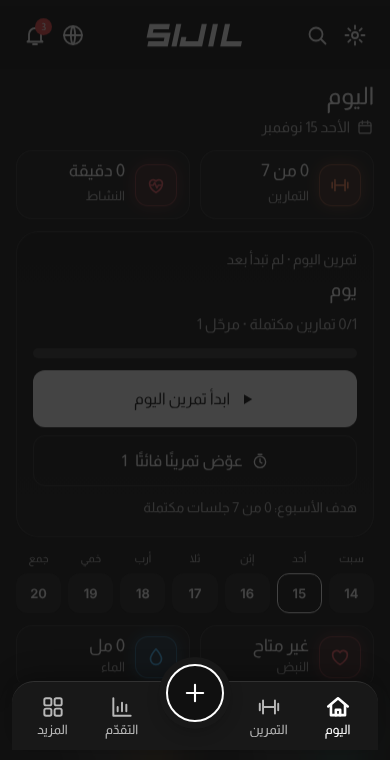
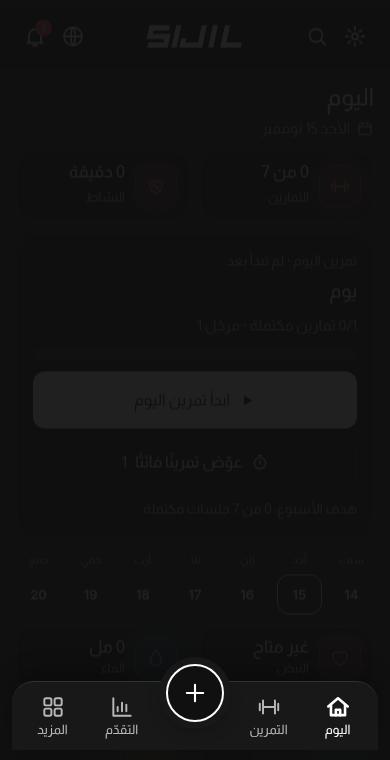
feat(train): مسارات التمرين الكبرى (الحديد، الكارديو، الكاليسثنكس، رفع الأوزان، السباحة، الركض)
الحديد والكارديو يحملان وظائفهما الحالية، والباقي فارغ بانتظار التكوين. إعادة تنسيق ترويسة الأسبوع بالسمات.

Claude-Session: https://claude.ai/code/session_01KyybtLNcTyHNYDyyNW1Vaq

diff --git a/app/fitness-tracker.html b/app/fitness-tracker.html
@@ -1086,6 +1086,19 @@ html[data-sj="white"] body .sjday{background:color-mix(in srgb,var(--dc) 7%,#fff
 .sjxo .sico,.sjxp .sico{flex:0 0 40px;width:40px;height:40px;display:grid;place-items:center;border-radius:12px;background:color-mix(in srgb,var(--sj-tx) 7%,transparent)}
 .sjxo .sico svg,.sjxp .sico svg{width:30px;height:30px}
 .sjadd input[data-f="n"]{margin-top:8px}
+.sjtrk{display:grid;grid-template-columns:repeat(2,minmax(0,1fr));gap:12px}
+.sjtk{display:flex;flex-direction:column;align-items:flex-start;gap:4px;text-align:start;padding:14px;border-radius:20px;border:1px solid var(--sj-ln);background:var(--sj-s1);color:var(--sj-tx);min-height:150px}
+.sjtk b{font-size:19px;margin-top:6px}.sjtk small{color:var(--sj-mu);direction:ltr;font-size:13px}.sjtk .mu{font-size:13px;margin-top:auto}
+.sjtk.soon{opacity:.72}
+.sjemp{display:flex;flex-direction:column;align-items:center;gap:8px;padding:34px 16px;text-align:center}
+html[data-sj] body .wkh{background:var(--sj-s1)!important;color:var(--sj-tx)!important;border:1px solid var(--sj-ln)!important}
+html[data-sj] body .wkh .wkn{border-color:var(--sj-ln)!important}
+html[data-sj] body .wkh .bar{background:var(--sj-ln)!important}html[data-sj] body .wkh .bar i,html[data-sj] body .wkh .wtl i.dn,html[data-sj] body .wkh .wtl i.cu{background:var(--sj-tx)!important}
+html[data-sj] body .dgrid{display:grid!important;grid-template-columns:repeat(7,minmax(0,1fr))!important;gap:6px!important}
+html[data-sj] body .dgrid .dt{min-width:0;width:auto;padding:8px 2px!important;border-radius:14px!important;background:var(--sj-s1)!important;border:1px solid var(--sj-ln)!important;color:var(--sj-tx)!important;box-shadow:none!important}
+html[data-sj] body .dgrid .dt.on{border-color:var(--sj-tx)!important;box-shadow:inset 0 0 0 1px var(--sj-tx)!important}
+html[data-sj] body .dgrid .dt b{font-size:12px}html[data-sj] body .dgrid .dt small,html[data-sj] body .dgrid .dt em{font-size:10px}
+html[data-sj] body .dgrid .dt .ck{border-color:var(--sj-mu)!important}html[data-sj] body .dgrid .dt .ck.ok{background:var(--sj-ok)!important;border-color:var(--sj-ok)!important;color:#fff!important}
 </style>
 
 <svg width="0" height="0" style="position:absolute" aria-hidden="true">
@@ -1435,10 +1448,12 @@ function taskRow(t,late){
  else h+='<div class="wrow"><div class="cur"><small>الحالي</small><b>'+F(bs,1)+'</b></div><label><small>وزن هذا الأسبوع</small><input type="number" inputmode="decimal" min="'+bs+'" data-wk="'+t.k+'" value="'+w+'" aria-label="وزن هذا الأسبوع"></label><label><small>التكرار</small><input type="number" inputmode="numeric" data-rk="'+t.k+'" value="'+rp+'" aria-label="التكرار"></label><button class="btn sm" data-a="done" data-k="'+t.k+'">تم</button></div>'+suggLine(t);
  return h+'</div>'}
 function vTrain(){
+ if(UI.trk==='hub'||!UI.trk)return trkHub();
+ if(UI.trk==='cardio')return trkBack()+'<h1>الكارديو</h1><div class="mu" style="margin-bottom:10px">'+DAYS[TI()]+' · '+TD()+'</div>'+vCardio(1);
+ if(UI.trk!=='iron')return trkEmpty(UI.trk);
  const T=tasks(),ti=TI(),dn=T.filter(t=>t.r).length,late=T.filter(t=>t.d<ti&&!t.r),now=T.filter(t=>t.d===ti),pw=S.plan[ti],td=TD(),rs=restLeft();
- let h='<h1>التمرين</h1><div class="mu" style="margin-bottom:10px">'+DAYS[ti]+' · '+(pw.ex.length?esc(pw.t):'يوم راحة')+'</div>'+seg([['today','اليوم'],['week','الأسبوع'],['cardio','كارديو'],['plan','الخطة'],['cum','لم تتحقق'],['disc','اكتشف']],'tw',UI.tw);
+ let h=trkBack()+'<h1>الحديد</h1><div class="mu" style="margin-bottom:10px">'+DAYS[ti]+' · '+(pw.ex.length?esc(pw.t):'يوم راحة')+'</div>'+seg([['today','اليوم'],['week','الأسبوع'],['plan','الخطة'],['cum','لم تتحقق'],['disc','اكتشف']],'tw',UI.tw);
  if(UI.tw==='plan')return h+vPlan().replace(/^<button class="back"[^>]*>.*?<\/button>/,'').replace(/<h1>.*?<\/h1>/,'');
- if(UI.tw==='cardio')return h+vCardio(1);
  if(UI.tw==='disc')return h+vDisc();
  if(UI.tw==='cum')return h+vCum();
  if(UI.tw==='today')h+=planHead()+sxHero(0,0).note+'<div class="row" style="margin:10px 0 12px">'+sxHero(0,0).btn+'</div>'+sxHero(0,0).mk+(isDl()?deloadCard():'');
@@ -3345,6 +3360,8 @@ function vDisc(){
  let h=recoCard();
  h+='<button class="lnk" style="border:1px solid var(--bd);border-radius:18px;padding:14px;margin-bottom:12px;background:var(--card)" data-a="sub" data-v="exl">'+ic('book')+'<span class="t"><b>مكتبة التمارين</b><br><span class="mu">'+XL.length+' تمرينًا بشرح وعضلات مستهدفة، مع بحث وتصفية</span></span>'+ic('next')+'</button>';
  h+='<button class="lnk" style="border:1px solid var(--bd);border-radius:18px;padding:14px;margin-bottom:12px;background:var(--card)" data-a="sub" data-v="aip">'+ic('spark')+'<span class="t"><b>خطة بالذكاء الاصطناعي</b><br><span class="mu">خطة أسبوعية من مكتبة التمارين حسب مستواك</span></span>'+ic('next')+'</button>';
+h+='<button class="lnk" style="border:1px solid var(--bd);border-radius:18px;padding:14px;margin-bottom:12px;background:var(--card)" data-a="sub" data-v="nau">'+ic('dumbbell')+'<span class="t"><b>الأجهزة الرياضية</b><br><span class="mu">دليل أجهزة النادي وطريقة استخدامها</span></span>'+ic('next')+'</button>';
+h+='<button class="lnk" style="border:1px solid var(--bd);border-radius:18px;padding:14px;margin-bottom:12px;background:var(--card)" data-a="sub" data-v="prg">'+ic('book')+'<span class="t"><b>البرامج الجاهزة</b><br><span class="mu">برامج حديد جاهزة تضيفها إلى خطتك</span></span>'+ic('next')+'</button>';
  const mine=S.my||[];
  if(mine.length)h+='<h2 style="margin:14px 0 8px">'+ic('user')+'جلساتي</h2><div class="car">'+mine.map(sessCard).join('')+'</div>';
  CAT.forEach(c=>{const L=SESS.filter(s=>s.cat===c[0]);if(L.length)h+='<h2 style="margin:14px 0 8px">'+c[1]+'</h2><div class="car">'+L.map(sessCard).join('')+'</div>'});
@@ -5299,7 +5316,7 @@ function vEx(){
  let h='<div class="sjttl"><div><h1>المزيد</h1><div class="mu">إدارة التطبيق وتفضيلاتك</div></div></div>';
  h+='<button class="sjrow" data-a="go" data-v="me" style="background:var(--sj-btn)!important;color:var(--sj-btnt)!important"><span class="av" style="width:40px;height:40px;display:grid;place-items:center;border-radius:50%;flex:none">'+(P.av?'<img alt="" src="'+P.av+'" style="width:100%;height:100%;border-radius:50%;object-fit:cover">':esc((P.name||'س').charAt(0)))+'</span><span class="t">الملف الشخصي<small style="color:inherit;opacity:.75">إدارة بياناتك وتفضيلاتك</small></span>'+ic('next')+'</button>';
  h+='<div class="sjsec">الصحة والجسم</div>'+R('hr','heart','الربط الصحي',F2('link'))+R('wl','scale','الوزن والقياسات',F2('wgt'))+R('nu','fork','التغذية','data-a="fgo" data-v="food"');
- h+='<div class="sjsec">النادي</div>'+R('ar','pin','الأندية والزيارات',F2('gyms'),'جدول زياراتي والأجهزة')+R('tr','dumbbell','الأجهزة الرياضية',F2('nau'));
+ h+='<div class="sjsec">النادي</div>'+R('ar','pin','الأندية والزيارات',F2('gyms'),'جدول زياراتي والأجهزة')+R('tr','dumbbell','الأجهزة الرياضية',F2('nau'))+R('tr','gear','خطة التمارين والأوزان','data-a="sub" data-v="plan"');
  h+='<div class="sjsec">تعلّم</div>'+R('rp','timer','المنبهات',F2('rem'))+R('rp','book','الثقافة الرياضية',F2('cul'))+R('wt','calc','الأدوات',F2('tools'))+R('md','spark','المدرب الذكي',F2('coach'));
  h+='<div class="sjsec">التطبيق وحسابي</div>'+R('nt','gear','الإعدادات','data-a="sub" data-v="set"','المظهر والخط واللغة')+R('nt','users','المجتمع',F2('comm'))+R('nt','info','بياناتي والخصوصية','data-a="sub" data-v="set"','النسخ الاحتياطي والحذف');
  h+='<div class="sechead"><h2>كل المزايا</h2></div>';
@@ -5310,6 +5327,24 @@ function vEx(){
  [['التدريب',['wk','plan','prog','ach','arch','rpt']],['الصحة والتغذية',['meal','wgt','tools','link','rem']],['النادي والمعرفة',['gyms','nau','vis','cul','coach']],['المجتمع والحساب',['comm','nc','set','me']]].forEach(g=>{h+='<div class="sechead"><h2>'+g[0]+'</h2></div>'+rail(g[1].map(i=>chipF(FD[i])))});
  return h}
 Object.assign(ENT,{'اليوم':'Today','التمرين':'Workout','التقدّم':'Progress','المزيد':'More','المظهر':'Appearance','تسجيل سريع':'Quick log','تسجيل الماء':'Log water','تسجيل الوزن':'Log weight','تسجيل وجبة':'Log meal','تسجيل تمرين':'Log workout','أهلًا بك':'Welcome','ابدأ الآن':'Start now','تسجيل الدخول':'Sign in','تمرين اليوم':'Today\'s workout','يوم راحة':'Rest day','سجلاتي':'My records','الصحة والجسم':'Health & body','النادي':'Gym','تعلّم':'Learn','التطبيق وحسابي':'App & account','الأسود':'Black','الأبيض':'White','الأزرق':'Blue','الزمردي':'Emerald','الزيتوني':'Olive','البنفسجي':'Purple','الملف الشخصي':'Profile','النبض':'Pulse','الماء':'Water','التغذية':'Nutrition','التقارير':'Reports','الأرشيف':'Archive','الأوسمة':'Medals','مراقبة الوزن':'Weight tracking','النوم':'Sleep','الإعدادات':'Settings'});
+/* ===== مسارات التمرين الكبرى ===== */
+const TRKS=[['iron','الحديد','Iron','tr','dumbbell'],['cardio','الكارديو','Cardio','hr','pulse'],['cali','الكاليسثنكس','Calisthenics','wl','target'],['lift','رفع الأوزان','Weightlifting','wm','trophy'],['swim','السباحة','Swimming','wt','drop'],['run','الركض','Running','nu','step']];
+UI.trk=UI.trk||'hub';
+(()=>{let v=UI.tw;Object.defineProperty(UI,'tw',{configurable:true,enumerable:true,get(){return v},set(x){v=x;UI.trk=x==='cardio'?'cardio':'iron'}})})();
+function trkBack(){return '<button class="back" data-a="trkhub">'+ic('next')+'مسارات التمرين</button>'}
+function trkSub(k){const T=tasks(),ti=TI(),pw=S.plan[ti];
+ if(k==='iron'){const now=T.filter(t=>t.d===ti);return pw.ex.length?esc(pw.t)+' · '+now.filter(t=>t.r).length+'/'+now.length:'يوم راحة'}
+ if(k==='cardio'){const c=cdv(TD());return F(c.min)+' دقيقة · '+F(c.steps)+' خطوة اليوم'}
+ return 'قريبًا'}
+function trkHub(){
+ let h='<h1>التمرين</h1><div class="mu" style="margin-bottom:12px">اختر المسار</div><div class="sjtrk">';
+ h+=TRKS.map(x=>'<button class="sjtk'+(x[0]==='iron'||x[0]==='cardio'?'':' soon')+'" data-a="trk" data-v="'+x[0]+'">'+sjI(x[3],x[4])+'<b>'+x[1]+'</b><small>'+x[2]+'</small><span class="mu">'+trkSub(x[0])+'</span></button>').join('');
+ return h+'</div>'}
+function trkEmpty(k){const x=TRKS.find(a=>a[0]===k)||TRKS[0];
+ return trkBack()+'<h1>'+x[1]+'</h1><div class="card sjemp">'+sjI(x[3],x[4])+'<b>هذا المسار فارغ حاليًا</b><div class="mu">سيُجهَّز محتواه لاحقًا.</div></div>'}
+Object.assign(ACT,{trk:b=>{UI.trk=b.dataset.v;window.scrollTo(0,0)},trkhub:()=>{UI.trk='hub';window.scrollTo(0,0)}});
+(()=>{const g=ACT.go;ACT.go=function(b,ev){if(b&&b.dataset&&b.dataset.v==='train')UI.trk='hub';return g.apply(this,arguments)}})();
+Object.assign(ENT,{"مسارات التمرين":"Workout tracks","اختر المسار":"Choose a track","الحديد":"Iron","الكارديو":"Cardio","الكاليسثنكس":"Calisthenics","رفع الأوزان":"Weightlifting","السباحة":"Swimming","الركض":"Running","قريبًا":"Coming soon","هذا المسار فارغ حاليًا":"This track is empty for now","سيُجهَّز محتواه لاحقًا.":"Its content will be added later."});
 /* ===== خطة التمارين: نوع اليوم قائمة منسدلة، لون خفيف لكل يوم، وقائمة تمارين تناسب اليوم بالعربية والإنجليزية مع أيقونة الشكل ===== */
 const DAYT=[['صدر','Chest','chest'],['ظهر','Back','back'],['أكتاف','Shoulders','sho'],['باي','Biceps','bic'],['تراي','Triceps','tri'],['صدر وترايسبس','Chest & Triceps','chest,tri'],['ظهر وبايسبس','Back & Biceps','back,bic'],['أكتاف وبطن','Shoulders & Abs','sho,core'],['أرجل','Legs','quad,ham,glu,calf,add,hip'],['جسم علوي','Upper body','chest,back,sho,bic,tri,fore'],['جسم سفلي','Lower body','quad,ham,glu,calf,add,hip'],['جسم كامل','Full body','full'],['تكميلي','Accessory',''],['راحة','Rest','']];
 const DAYHUE=['#e5484d','#f5a524','#c9b80f','#3fb950','#16b3b3','#4c7dff','#a35ee8'];

diff --git a/pwa/index.html b/pwa/index.html
@@ -1086,6 +1086,19 @@ html[data-sj="white"] body .sjday{background:color-mix(in srgb,var(--dc) 7%,#fff
 .sjxo .sico,.sjxp .sico{flex:0 0 40px;width:40px;height:40px;display:grid;place-items:center;border-radius:12px;background:color-mix(in srgb,var(--sj-tx) 7%,transparent)}
 .sjxo .sico svg,.sjxp .sico svg{width:30px;height:30px}
 .sjadd input[data-f="n"]{margin-top:8px}
+.sjtrk{display:grid;grid-template-columns:repeat(2,minmax(0,1fr));gap:12px}
+.sjtk{display:flex;flex-direction:column;align-items:flex-start;gap:4px;text-align:start;padding:14px;border-radius:20px;border:1px solid var(--sj-ln);background:var(--sj-s1);color:var(--sj-tx);min-height:150px}
+.sjtk b{font-size:19px;margin-top:6px}.sjtk small{color:var(--sj-mu);direction:ltr;font-size:13px}.sjtk .mu{font-size:13px;margin-top:auto}
+.sjtk.soon{opacity:.72}
+.sjemp{display:flex;flex-direction:column;align-items:center;gap:8px;padding:34px 16px;text-align:center}
+html[data-sj] body .wkh{background:var(--sj-s1)!important;color:var(--sj-tx)!important;border:1px solid var(--sj-ln)!important}
+html[data-sj] body .wkh .wkn{border-color:var(--sj-ln)!important}
+html[data-sj] body .wkh .bar{background:var(--sj-ln)!important}html[data-sj] body .wkh .bar i,html[data-sj] body .wkh .wtl i.dn,html[data-sj] body .wkh .wtl i.cu{background:var(--sj-tx)!important}
+html[data-sj] body .dgrid{display:grid!important;grid-template-columns:repeat(7,minmax(0,1fr))!important;gap:6px!important}
+html[data-sj] body .dgrid .dt{min-width:0;width:auto;padding:8px 2px!important;border-radius:14px!important;background:var(--sj-s1)!important;border:1px solid var(--sj-ln)!important;color:var(--sj-tx)!important;box-shadow:none!important}
+html[data-sj] body .dgrid .dt.on{border-color:var(--sj-tx)!important;box-shadow:inset 0 0 0 1px var(--sj-tx)!important}
+html[data-sj] body .dgrid .dt b{font-size:12px}html[data-sj] body .dgrid .dt small,html[data-sj] body .dgrid .dt em{font-size:10px}
+html[data-sj] body .dgrid .dt .ck{border-color:var(--sj-mu)!important}html[data-sj] body .dgrid .dt .ck.ok{background:var(--sj-ok)!important;border-color:var(--sj-ok)!important;color:#fff!important}
 </style>
 <script src="config.js"></script>
 
@@ -1436,10 +1449,12 @@ function taskRow(t,late){
  else h+='<div class="wrow"><div class="cur"><small>الحالي</small><b>'+F(bs,1)+'</b></div><label><small>وزن هذا الأسبوع</small><input type="number" inputmode="decimal" min="'+bs+'" data-wk="'+t.k+'" value="'+w+'" aria-label="وزن هذا الأسبوع"></label><label><small>التكرار</small><input type="number" inputmode="numeric" data-rk="'+t.k+'" value="'+rp+'" aria-label="التكرار"></label><button class="btn sm" data-a="done" data-k="'+t.k+'">تم</button></div>'+suggLine(t);
  return h+'</div>'}
 function vTrain(){
+ if(UI.trk==='hub'||!UI.trk)return trkHub();
+ if(UI.trk==='cardio')return trkBack()+'<h1>الكارديو</h1><div class="mu" style="margin-bottom:10px">'+DAYS[TI()]+' · '+TD()+'</div>'+vCardio(1);
+ if(UI.trk!=='iron')return trkEmpty(UI.trk);
  const T=tasks(),ti=TI(),dn=T.filter(t=>t.r).length,late=T.filter(t=>t.d<ti&&!t.r),now=T.filter(t=>t.d===ti),pw=S.plan[ti],td=TD(),rs=restLeft();
- let h='<h1>التمرين</h1><div class="mu" style="margin-bottom:10px">'+DAYS[ti]+' · '+(pw.ex.length?esc(pw.t):'يوم راحة')+'</div>'+seg([['today','اليوم'],['week','الأسبوع'],['cardio','كارديو'],['plan','الخطة'],['cum','لم تتحقق'],['disc','اكتشف']],'tw',UI.tw);
+ let h=trkBack()+'<h1>الحديد</h1><div class="mu" style="margin-bottom:10px">'+DAYS[ti]+' · '+(pw.ex.length?esc(pw.t):'يوم راحة')+'</div>'+seg([['today','اليوم'],['week','الأسبوع'],['plan','الخطة'],['cum','لم تتحقق'],['disc','اكتشف']],'tw',UI.tw);
  if(UI.tw==='plan')return h+vPlan().replace(/^<button class="back"[^>]*>.*?<\/button>/,'').replace(/<h1>.*?<\/h1>/,'');
- if(UI.tw==='cardio')return h+vCardio(1);
  if(UI.tw==='disc')return h+vDisc();
  if(UI.tw==='cum')return h+vCum();
  if(UI.tw==='today')h+=planHead()+sxHero(0,0).note+'<div class="row" style="margin:10px 0 12px">'+sxHero(0,0).btn+'</div>'+sxHero(0,0).mk+(isDl()?deloadCard():'');
@@ -3346,6 +3361,8 @@ function vDisc(){
  let h=recoCard();
  h+='<button class="lnk" style="border:1px solid var(--bd);border-radius:18px;padding:14px;margin-bottom:12px;background:var(--card)" data-a="sub" data-v="exl">'+ic('book')+'<span class="t"><b>مكتبة التمارين</b><br><span class="mu">'+XL.length+' تمرينًا بشرح وعضلات مستهدفة، مع بحث وتصفية</span></span>'+ic('next')+'</button>';
  h+='<button class="lnk" style="border:1px solid var(--bd);border-radius:18px;padding:14px;margin-bottom:12px;background:var(--card)" data-a="sub" data-v="aip">'+ic('spark')+'<span class="t"><b>خطة بالذكاء الاصطناعي</b><br><span class="mu">خطة أسبوعية من مكتبة التمارين حسب مستواك</span></span>'+ic('next')+'</button>';
+h+='<button class="lnk" style="border:1px solid var(--bd);border-radius:18px;padding:14px;margin-bottom:12px;background:var(--card)" data-a="sub" data-v="nau">'+ic('dumbbell')+'<span class="t"><b>الأجهزة الرياضية</b><br><span class="mu">دليل أجهزة النادي وطريقة استخدامها</span></span>'+ic('next')+'</button>';
+h+='<button class="lnk" style="border:1px solid var(--bd);border-radius:18px;padding:14px;margin-bottom:12px;background:var(--card)" data-a="sub" data-v="prg">'+ic('book')+'<span class="t"><b>البرامج الجاهزة</b><br><span class="mu">برامج حديد جاهزة تضيفها إلى خطتك</span></span>'+ic('next')+'</button>';
  const mine=S.my||[];
  if(mine.length)h+='<h2 style="margin:14px 0 8px">'+ic('user')+'جلساتي</h2><div class="car">'+mine.map(sessCard).join('')+'</div>';
  CAT.forEach(c=>{const L=SESS.filter(s=>s.cat===c[0]);if(L.length)h+='<h2 style="margin:14px 0 8px">'+c[1]+'</h2><div class="car">'+L.map(sessCard).join('')+'</div>'});
@@ -5300,7 +5317,7 @@ function vEx(){
  let h='<div class="sjttl"><div><h1>المزيد</h1><div class="mu">إدارة التطبيق وتفضيلاتك</div></div></div>';
  h+='<button class="sjrow" data-a="go" data-v="me" style="background:var(--sj-btn)!important;color:var(--sj-btnt)!important"><span class="av" style="width:40px;height:40px;display:grid;place-items:center;border-radius:50%;flex:none">'+(P.av?'<img alt="" src="'+P.av+'" style="width:100%;height:100%;border-radius:50%;object-fit:cover">':esc((P.name||'س').charAt(0)))+'</span><span class="t">الملف الشخصي<small style="color:inherit;opacity:.75">إدارة بياناتك وتفضيلاتك</small></span>'+ic('next')+'</button>';
  h+='<div class="sjsec">الصحة والجسم</div>'+R('hr','heart','الربط الصحي',F2('link'))+R('wl','scale','الوزن والقياسات',F2('wgt'))+R('nu','fork','التغذية','data-a="fgo" data-v="food"');
- h+='<div class="sjsec">النادي</div>'+R('ar','pin','الأندية والزيارات',F2('gyms'),'جدول زياراتي والأجهزة')+R('tr','dumbbell','الأجهزة الرياضية',F2('nau'));
+ h+='<div class="sjsec">النادي</div>'+R('ar','pin','الأندية والزيارات',F2('gyms'),'جدول زياراتي والأجهزة')+R('tr','dumbbell','الأجهزة الرياضية',F2('nau'))+R('tr','gear','خطة التمارين والأوزان','data-a="sub" data-v="plan"');
  h+='<div class="sjsec">تعلّم</div>'+R('rp','timer','المنبهات',F2('rem'))+R('rp','book','الثقافة الرياضية',F2('cul'))+R('wt','calc','الأدوات',F2('tools'))+R('md','spark','المدرب الذكي',F2('coach'));
  h+='<div class="sjsec">التطبيق وحسابي</div>'+R('nt','gear','الإعدادات','data-a="sub" data-v="set"','المظهر والخط واللغة')+R('nt','users','المجتمع',F2('comm'))+R('nt','info','بياناتي والخصوصية','data-a="sub" data-v="set"','النسخ الاحتياطي والحذف');
  h+='<div class="sechead"><h2>كل المزايا</h2></div>';
@@ -5311,6 +5328,24 @@ function vEx(){
  [['التدريب',['wk','plan','prog','ach','arch','rpt']],['الصحة والتغذية',['meal','wgt','tools','link','rem']],['النادي والمعرفة',['gyms','nau','vis','cul','coach']],['المجتمع والحساب',['comm','nc','set','me']]].forEach(g=>{h+='<div class="sechead"><h2>'+g[0]+'</h2></div>'+rail(g[1].map(i=>chipF(FD[i])))});
  return h}
 Object.assign(ENT,{'اليوم':'Today','التمرين':'Workout','التقدّم':'Progress','المزيد':'More','المظهر':'Appearance','تسجيل سريع':'Quick log','تسجيل الماء':'Log water','تسجيل الوزن':'Log weight','تسجيل وجبة':'Log meal','تسجيل تمرين':'Log workout','أهلًا بك':'Welcome','ابدأ الآن':'Start now','تسجيل الدخول':'Sign in','تمرين اليوم':'Today\'s workout','يوم راحة':'Rest day','سجلاتي':'My records','الصحة والجسم':'Health & body','النادي':'Gym','تعلّم':'Learn','التطبيق وحسابي':'App & account','الأسود':'Black','الأبيض':'White','الأزرق':'Blue','الزمردي':'Emerald','الزيتوني':'Olive','البنفسجي':'Purple','الملف الشخصي':'Profile','النبض':'Pulse','الماء':'Water','التغذية':'Nutrition','التقارير':'Reports','الأرشيف':'Archive','الأوسمة':'Medals','مراقبة الوزن':'Weight tracking','النوم':'Sleep','الإعدادات':'Settings'});
+/* ===== مسارات التمرين الكبرى ===== */
+const TRKS=[['iron','الحديد','Iron','tr','dumbbell'],['cardio','الكارديو','Cardio','hr','pulse'],['cali','الكاليسثنكس','Calisthenics','wl','target'],['lift','رفع الأوزان','Weightlifting','wm','trophy'],['swim','السباحة','Swimming','wt','drop'],['run','الركض','Running','nu','step']];
+UI.trk=UI.trk||'hub';
+(()=>{let v=UI.tw;Object.defineProperty(UI,'tw',{configurable:true,enumerable:true,get(){return v},set(x){v=x;UI.trk=x==='cardio'?'cardio':'iron'}})})();
+function trkBack(){return '<button class="back" data-a="trkhub">'+ic('next')+'مسارات التمرين</button>'}
+function trkSub(k){const T=tasks(),ti=TI(),pw=S.plan[ti];
+ if(k==='iron'){const now=T.filter(t=>t.d===ti);return pw.ex.length?esc(pw.t)+' · '+now.filter(t=>t.r).length+'/'+now.length:'يوم راحة'}
+ if(k==='cardio'){const c=cdv(TD());return F(c.min)+' دقيقة · '+F(c.steps)+' خطوة اليوم'}
+ return 'قريبًا'}
+function trkHub(){
+ let h='<h1>التمرين</h1><div class="mu" style="margin-bottom:12px">اختر المسار</div><div class="sjtrk">';
+ h+=TRKS.map(x=>'<button class="sjtk'+(x[0]==='iron'||x[0]==='cardio'?'':' soon')+'" data-a="trk" data-v="'+x[0]+'">'+sjI(x[3],x[4])+'<b>'+x[1]+'</b><small>'+x[2]+'</small><span class="mu">'+trkSub(x[0])+'</span></button>').join('');
+ return h+'</div>'}
+function trkEmpty(k){const x=TRKS.find(a=>a[0]===k)||TRKS[0];
+ return trkBack()+'<h1>'+x[1]+'</h1><div class="card sjemp">'+sjI(x[3],x[4])+'<b>هذا المسار فارغ حاليًا</b><div class="mu">سيُجهَّز محتواه لاحقًا.</div></div>'}
+Object.assign(ACT,{trk:b=>{UI.trk=b.dataset.v;window.scrollTo(0,0)},trkhub:()=>{UI.trk='hub';window.scrollTo(0,0)}});
+(()=>{const g=ACT.go;ACT.go=function(b,ev){if(b&&b.dataset&&b.dataset.v==='train')UI.trk='hub';return g.apply(this,arguments)}})();
+Object.assign(ENT,{"مسارات التمرين":"Workout tracks","اختر المسار":"Choose a track","الحديد":"Iron","الكارديو":"Cardio","الكاليسثنكس":"Calisthenics","رفع الأوزان":"Weightlifting","السباحة":"Swimming","الركض":"Running","قريبًا":"Coming soon","هذا المسار فارغ حاليًا":"This track is empty for now","سيُجهَّز محتواه لاحقًا.":"Its content will be added later."});
 /* ===== خطة التمارين: نوع اليوم قائمة منسدلة، لون خفيف لكل يوم، وقائمة تمارين تناسب اليوم بالعربية والإنجليزية مع أيقونة الشكل ===== */
 const DAYT=[['صدر','Chest','chest'],['ظهر','Back','back'],['أكتاف','Shoulders','sho'],['باي','Biceps','bic'],['تراي','Triceps','tri'],['صدر وترايسبس','Chest & Triceps','chest,tri'],['ظهر وبايسبس','Back & Biceps','back,bic'],['أكتاف وبطن','Shoulders & Abs','sho,core'],['أرجل','Legs','quad,ham,glu,calf,add,hip'],['جسم علوي','Upper body','chest,back,sho,bic,tri,fore'],['جسم سفلي','Lower body','quad,ham,glu,calf,add,hip'],['جسم كامل','Full body','full'],['تكميلي','Accessory',''],['راحة','Rest','']];
 const DAYHUE=['#e5484d','#f5a524','#c9b80f','#3fb950','#16b3b3','#4c7dff','#a35ee8'];

diff --git a/www/index.html b/www/index.html
@@ -1086,6 +1086,19 @@ html[data-sj="white"] body .sjday{background:color-mix(in srgb,var(--dc) 7%,#fff
 .sjxo .sico,.sjxp .sico{flex:0 0 40px;width:40px;height:40px;display:grid;place-items:center;border-radius:12px;background:color-mix(in srgb,var(--sj-tx) 7%,transparent)}
 .sjxo .sico svg,.sjxp .sico svg{width:30px;height:30px}
 .sjadd input[data-f="n"]{margin-top:8px}
+.sjtrk{display:grid;grid-template-columns:repeat(2,minmax(0,1fr));gap:12px}
+.sjtk{display:flex;flex-direction:column;align-items:flex-start;gap:4px;text-align:start;padding:14px;border-radius:20px;border:1px solid var(--sj-ln);background:var(--sj-s1);color:var(--sj-tx);min-height:150px}
+.sjtk b{font-size:19px;margin-top:6px}.sjtk small{color:var(--sj-mu);direction:ltr;font-size:13px}.sjtk .mu{font-size:13px;margin-top:auto}
+.sjtk.soon{opacity:.72}
+.sjemp{display:flex;flex-direction:column;align-items:center;gap:8px;padding:34px 16px;text-align:center}
+html[data-sj] body .wkh{background:var(--sj-s1)!important;color:var(--sj-tx)!important;border:1px solid var(--sj-ln)!important}
+html[data-sj] body .wkh .wkn{border-color:var(--sj-ln)!important}
+html[data-sj] body .wkh .bar{background:var(--sj-ln)!important}html[data-sj] body .wkh .bar i,html[data-sj] body .wkh .wtl i.dn,html[data-sj] body .wkh .wtl i.cu{background:var(--sj-tx)!important}
+html[data-sj] body .dgrid{display:grid!important;grid-template-columns:repeat(7,minmax(0,1fr))!important;gap:6px!important}
+html[data-sj] body .dgrid .dt{min-width:0;width:auto;padding:8px 2px!important;border-radius:14px!important;background:var(--sj-s1)!important;border:1px solid var(--sj-ln)!important;color:var(--sj-tx)!important;box-shadow:none!important}
+html[data-sj] body .dgrid .dt.on{border-color:var(--sj-tx)!important;box-shadow:inset 0 0 0 1px var(--sj-tx)!important}
+html[data-sj] body .dgrid .dt b{font-size:12px}html[data-sj] body .dgrid .dt small,html[data-sj] body .dgrid .dt em{font-size:10px}
+html[data-sj] body .dgrid .dt .ck{border-color:var(--sj-mu)!important}html[data-sj] body .dgrid .dt .ck.ok{background:var(--sj-ok)!important;border-color:var(--sj-ok)!important;color:#fff!important}
 </style>
 <script src="config.js"></script>
 
@@ -1436,10 +1449,12 @@ function taskRow(t,late){
  else h+='<div class="wrow"><div class="cur"><small>الحالي</small><b>'+F(bs,1)+'</b></div><label><small>وزن هذا الأسبوع</small><input type="number" inputmode="decimal" min="'+bs+'" data-wk="'+t.k+'" value="'+w+'" aria-label="وزن هذا الأسبوع"></label><label><small>التكرار</small><input type="number" inputmode="numeric" data-rk="'+t.k+'" value="'+rp+'" aria-label="التكرار"></label><button class="btn sm" data-a="done" data-k="'+t.k+'">تم</button></div>'+suggLine(t);
  return h+'</div>'}
 function vTrain(){
+ if(UI.trk==='hub'||!UI.trk)return trkHub();
+ if(UI.trk==='cardio')return trkBack()+'<h1>الكارديو</h1><div class="mu" style="margin-bottom:10px">'+DAYS[TI()]+' · '+TD()+'</div>'+vCardio(1);
+ if(UI.trk!=='iron')return trkEmpty(UI.trk);
  const T=tasks(),ti=TI(),dn=T.filter(t=>t.r).length,late=T.filter(t=>t.d<ti&&!t.r),now=T.filter(t=>t.d===ti),pw=S.plan[ti],td=TD(),rs=restLeft();
- let h='<h1>التمرين</h1><div class="mu" style="margin-bottom:10px">'+DAYS[ti]+' · '+(pw.ex.length?esc(pw.t):'يوم راحة')+'</div>'+seg([['today','اليوم'],['week','الأسبوع'],['cardio','كارديو'],['plan','الخطة'],['cum','لم تتحقق'],['disc','اكتشف']],'tw',UI.tw);
+ let h=trkBack()+'<h1>الحديد</h1><div class="mu" style="margin-bottom:10px">'+DAYS[ti]+' · '+(pw.ex.length?esc(pw.t):'يوم راحة')+'</div>'+seg([['today','اليوم'],['week','الأسبوع'],['plan','الخطة'],['cum','لم تتحقق'],['disc','اكتشف']],'tw',UI.tw);
  if(UI.tw==='plan')return h+vPlan().replace(/^<button class="back"[^>]*>.*?<\/button>/,'').replace(/<h1>.*?<\/h1>/,'');
- if(UI.tw==='cardio')return h+vCardio(1);
  if(UI.tw==='disc')return h+vDisc();
  if(UI.tw==='cum')return h+vCum();
  if(UI.tw==='today')h+=planHead()+sxHero(0,0).note+'<div class="row" style="margin:10px 0 12px">'+sxHero(0,0).btn+'</div>'+sxHero(0,0).mk+(isDl()?deloadCard():'');
@@ -3346,6 +3361,8 @@ function vDisc(){
  let h=recoCard();
  h+='<button class="lnk" style="border:1px solid var(--bd);border-radius:18px;padding:14px;margin-bottom:12px;background:var(--card)" data-a="sub" data-v="exl">'+ic('book')+'<span class="t"><b>مكتبة التمارين</b><br><span class="mu">'+XL.length+' تمرينًا بشرح وعضلات مستهدفة، مع بحث وتصفية</span></span>'+ic('next')+'</button>';
  h+='<button class="lnk" style="border:1px solid var(--bd);border-radius:18px;padding:14px;margin-bottom:12px;background:var(--card)" data-a="sub" data-v="aip">'+ic('spark')+'<span class="t"><b>خطة بالذكاء الاصطناعي</b><br><span class="mu">خطة أسبوعية من مكتبة التمارين حسب مستواك</span></span>'+ic('next')+'</button>';
+h+='<button class="lnk" style="border:1px solid var(--bd);border-radius:18px;padding:14px;margin-bottom:12px;background:var(--card)" data-a="sub" data-v="nau">'+ic('dumbbell')+'<span class="t"><b>الأجهزة الرياضية</b><br><span class="mu">دليل أجهزة النادي وطريقة استخدامها</span></span>'+ic('next')+'</button>';
+h+='<button class="lnk" style="border:1px solid var(--bd);border-radius:18px;padding:14px;margin-bottom:12px;background:var(--card)" data-a="sub" data-v="prg">'+ic('book')+'<span class="t"><b>البرامج الجاهزة</b><br><span class="mu">برامج حديد جاهزة تضيفها إلى خطتك</span></span>'+ic('next')+'</button>';
  const mine=S.my||[];
  if(mine.length)h+='<h2 style="margin:14px 0 8px">'+ic('user')+'جلساتي</h2><div class="car">'+mine.map(sessCard).join('')+'</div>';
  CAT.forEach(c=>{const L=SESS.filter(s=>s.cat===c[0]);if(L.length)h+='<h2 style="margin:14px 0 8px">'+c[1]+'</h2><div class="car">'+L.map(sessCard).join('')+'</div>'});
@@ -5300,7 +5317,7 @@ function vEx(){
  let h='<div class="sjttl"><div><h1>المزيد</h1><div class="mu">إدارة التطبيق وتفضيلاتك</div></div></div>';
  h+='<button class="sjrow" data-a="go" data-v="me" style="background:var(--sj-btn)!important;color:var(--sj-btnt)!important"><span class="av" style="width:40px;height:40px;display:grid;place-items:center;border-radius:50%;flex:none">'+(P.av?'<img alt="" src="'+P.av+'" style="width:100%;height:100%;border-radius:50%;object-fit:cover">':esc((P.name||'س').charAt(0)))+'</span><span class="t">الملف الشخصي<small style="color:inherit;opacity:.75">إدارة بياناتك وتفضيلاتك</small></span>'+ic('next')+'</button>';
  h+='<div class="sjsec">الصحة والجسم</div>'+R('hr','heart','الربط الصحي',F2('link'))+R('wl','scale','الوزن والقياسات',F2('wgt'))+R('nu','fork','التغذية','data-a="fgo" data-v="food"');
- h+='<div class="sjsec">النادي</div>'+R('ar','pin','الأندية والزيارات',F2('gyms'),'جدول زياراتي والأجهزة')+R('tr','dumbbell','الأجهزة الرياضية',F2('nau'));
+ h+='<div class="sjsec">النادي</div>'+R('ar','pin','الأندية والزيارات',F2('gyms'),'جدول زياراتي والأجهزة')+R('tr','dumbbell','الأجهزة الرياضية',F2('nau'))+R('tr','gear','خطة التمارين والأوزان','data-a="sub" data-v="plan"');
  h+='<div class="sjsec">تعلّم</div>'+R('rp','timer','المنبهات',F2('rem'))+R('rp','book','الثقافة الرياضية',F2('cul'))+R('wt','calc','الأدوات',F2('tools'))+R('md','spark','المدرب الذكي',F2('coach'));
  h+='<div class="sjsec">التطبيق وحسابي</div>'+R('nt','gear','الإعدادات','data-a="sub" data-v="set"','المظهر والخط واللغة')+R('nt','users','المجتمع',F2('comm'))+R('nt','info','بياناتي والخصوصية','data-a="sub" data-v="set"','النسخ الاحتياطي والحذف');
  h+='<div class="sechead"><h2>كل المزايا</h2></div>';
@@ -5311,6 +5328,24 @@ function vEx(){
  [['التدريب',['wk','plan','prog','ach','arch','rpt']],['الصحة والتغذية',['meal','wgt','tools','link','rem']],['النادي والمعرفة',['gyms','nau','vis','cul','coach']],['المجتمع والحساب',['comm','nc','set','me']]].forEach(g=>{h+='<div class="sechead"><h2>'+g[0]+'</h2></div>'+rail(g[1].map(i=>chipF(FD[i])))});
  return h}
 Object.assign(ENT,{'اليوم':'Today','التمرين':'Workout','التقدّم':'Progress','المزيد':'More','المظهر':'Appearance','تسجيل سريع':'Quick log','تسجيل الماء':'Log water','تسجيل الوزن':'Log weight','تسجيل وجبة':'Log meal','تسجيل تمرين':'Log workout','أهلًا بك':'Welcome','ابدأ الآن':'Start now','تسجيل الدخول':'Sign in','تمرين اليوم':'Today\'s workout','يوم راحة':'Rest day','سجلاتي':'My records','الصحة والجسم':'Health & body','النادي':'Gym','تعلّم':'Learn','التطبيق وحسابي':'App & account','الأسود':'Black','الأبيض':'White','الأزرق':'Blue','الزمردي':'Emerald','الزيتوني':'Olive','البنفسجي':'Purple','الملف الشخصي':'Profile','النبض':'Pulse','الماء':'Water','التغذية':'Nutrition','التقارير':'Reports','الأرشيف':'Archive','الأوسمة':'Medals','مراقبة الوزن':'Weight tracking','النوم':'Sleep','الإعدادات':'Settings'});
+/* ===== مسارات التمرين الكبرى ===== */
+const TRKS=[['iron','الحديد','Iron','tr','dumbbell'],['cardio','الكارديو','Cardio','hr','pulse'],['cali','الكاليسثنكس','Calisthenics','wl','target'],['lift','رفع الأوزان','Weightlifting','wm','trophy'],['swim','السباحة','Swimming','wt','drop'],['run','الركض','Running','nu','step']];
+UI.trk=UI.trk||'hub';
+(()=>{let v=UI.tw;Object.defineProperty(UI,'tw',{configurable:true,enumerable:true,get(){return v},set(x){v=x;UI.trk=x==='cardio'?'cardio':'iron'}})})();
+function trkBack(){return '<button class="back" data-a="trkhub">'+ic('next')+'مسارات التمرين</button>'}
+function trkSub(k){const T=tasks(),ti=TI(),pw=S.plan[ti];
+ if(k==='iron'){const now=T.filter(t=>t.d===ti);return pw.ex.length?esc(pw.t)+' · '+now.filter(t=>t.r).length+'/'+now.length:'يوم راحة'}
+ if(k==='cardio'){const c=cdv(TD());return F(c.min)+' دقيقة · '+F(c.steps)+' خطوة اليوم'}
+ return 'قريبًا'}
+function trkHub(){
+ let h='<h1>التمرين</h1><div class="mu" style="margin-bottom:12px">اختر المسار</div><div class="sjtrk">';
+ h+=TRKS.map(x=>'<button class="sjtk'+(x[0]==='iron'||x[0]==='cardio'?'':' soon')+'" data-a="trk" data-v="'+x[0]+'">'+sjI(x[3],x[4])+'<b>'+x[1]+'</b><small>'+x[2]+'</small><span class="mu">'+trkSub(x[0])+'</span></button>').join('');
+ return h+'</div>'}
+function trkEmpty(k){const x=TRKS.find(a=>a[0]===k)||TRKS[0];
+ return trkBack()+'<h1>'+x[1]+'</h1><div class="card sjemp">'+sjI(x[3],x[4])+'<b>هذا المسار فارغ حاليًا</b><div class="mu">سيُجهَّز محتواه لاحقًا.</div></div>'}
+Object.assign(ACT,{trk:b=>{UI.trk=b.dataset.v;window.scrollTo(0,0)},trkhub:()=>{UI.trk='hub';window.scrollTo(0,0)}});
+(()=>{const g=ACT.go;ACT.go=function(b,ev){if(b&&b.dataset&&b.dataset.v==='train')UI.trk='hub';return g.apply(this,arguments)}})();
+Object.assign(ENT,{"مسارات التمرين":"Workout tracks","اختر المسار":"Choose a track","الحديد":"Iron","الكارديو":"Cardio","الكاليسثنكس":"Calisthenics","رفع الأوزان":"Weightlifting","السباحة":"Swimming","الركض":"Running","قريبًا":"Coming soon","هذا المسار فارغ حاليًا":"This track is empty for now","سيُجهَّز محتواه لاحقًا.":"Its content will be added later."});
 /* ===== خطة التمارين: نوع اليوم قائمة منسدلة، لون خفيف لكل يوم، وقائمة تمارين تناسب اليوم بالعربية والإنجليزية مع أيقونة الشكل ===== */
 const DAYT=[['صدر','Chest','chest'],['ظهر','Back','back'],['أكتاف','Shoulders','sho'],['باي','Biceps','bic'],['تراي','Triceps','tri'],['صدر وترايسبس','Chest & Triceps','chest,tri'],['ظهر وبايسبس','Back & Biceps','back,bic'],['أكتاف وبطن','Shoulders & Abs','sho,core'],['أرجل','Legs','quad,ham,glu,calf,add,hip'],['جسم علوي','Upper body','chest,back,sho,bic,tri,fore'],['جسم سفلي','Lower body','quad,ham,glu,calf,add,hip'],['جسم كامل','Full body','full'],['تكميلي','Accessory',''],['راحة','Rest','']];
 const DAYHUE=['#e5484d','#f5a524','#c9b80f','#3fb950','#16b3b3','#4c7dff','#a35ee8'];

diff --git a/tests/sijil.e2e.js b/tests/sijil.e2e.js
@@ -80,4 +80,15 @@ const IND=/[٠-٩]/;
   await p.click('.sjday[data-d="1"] summary');await p.click('.sjday[data-d="1"] .sjxo.oth');await p.fill('.sjday[data-d="1"] [data-f=n]','تمرين كتبته');await p.click('.sjday[data-d="1"] [data-a=add]');await p.waitForTimeout(200);
   ok(await p.evaluate(()=>S.plan[1].ex.some(e=>e.n==='تمرين كتبته')),'خيار «أخرى» يقبل اسمًا يكتبه المستخدم');
   ok(p.errs.length===0,'لا أخطاء سكربت',p.errs.join('|'));await ctx.close()}
+ /* 6) مسارات التمرين الكبرى */
+ {const {ctx,p}=await mk(390);await p.evaluate(seed);await p.click('#nav button[data-v=train]');await p.waitForTimeout(200);
+  const ks=await p.$$eval('.sjtk',a=>a.map(x=>x.dataset.v));ok(JSON.stringify(ks)===JSON.stringify(['iron','cardio','cali','lift','swim','run']),'ستة مسارات: الحديد، الكارديو، الكاليسثنكس، رفع الأوزان، السباحة، الركض',ks.join());
+  await p.click('.sjtk[data-v=iron]');await p.waitForTimeout(150);
+  const segs=await p.$$eval('.seg [data-a=seg]',a=>a.map(x=>x.dataset.v));ok(segs.join()==='today,week,plan,cum,disc','مسار الحديد: اليوم، الأسبوع، الخطة، لم تتحقق، اكتشف (دون الكارديو)',segs.join());
+  ok(!!await p.$('#sx-go,[data-a=wkstart],[data-a=sxgo]')||/ابدأ|أكمل/.test(await p.evaluate(()=>document.body.innerText)),'مسار الحديد يعرض بدء التمرين');
+  await p.click('[data-a=seg][data-v=disc]');await p.waitForTimeout(150);const dv=await p.$$eval('[data-a=sub]',a=>a.map(x=>x.dataset.v));ok(['exl','aip','nau','prg'].every(x=>dv.includes(x)),'«اكتشف» في الحديد يضم المكتبة والذكاء الاصطناعي والأجهزة والبرامج',dv.join());
+  await p.click('[data-a=trkhub]');await p.click('.sjtk[data-v=cardio]');await p.waitForTimeout(150);ok(/الكارديو/.test(await p.evaluate(()=>document.querySelector('h1').innerText))&&!!await p.$('[data-a=ss]'),'مسار الكارديو يضم تسجيل الجلسات والبيانات');
+  for(const k of ['cali','lift','swim','run']){await p.click('[data-a=trkhub]');await p.click('.sjtk[data-v='+k+']');await p.waitForTimeout(100);ok(!!await p.$('.sjemp')&&(await p.$$('.card')).length===1,'مسار '+k+' فارغ بانتظار التكوين')}
+  await p.click('#nav button[data-v=train]');ok(!!await p.$('.sjtk'),'زر التمرين في الشريط يعيد إلى قائمة المسارات');
+  ok(p.errs.length===0,'لا أخطاء سكربت',p.errs.join('|'));await ctx.close()}
  await b.close();console.log('\n'+pass+' ناجح، '+fail+' فاشل');process.exit(fail?1:0)})();

diff --git a/tests/ux.e2e.js b/tests/ux.e2e.js
@@ -39,7 +39,7 @@ const ovf=p=>p.evaluate(()=>document.documentElement.scrollWidth>innerWidth+1);
   await click(p,'[data-a="wkend"]');t=await txt(p);
   ok(/تمرين جزئي محفوظ · 1 من 7 مجموعة/.test(t.replace(/\s+/g,' '))||/تمرين جزئي محفوظ · 1 من 9 مجموعة/.test(t.replace(/\s+/g,' ')),'اليوم يعرض «تمرين جزئي محفوظ · 1 من 9 مجموعة»',t.match(/تمرين جزئي[^\n]*/));
   ok(/أكمل التمرين/.test(t)&&/هدف الأسبوع: 0 من 3/.test(t),'الزر «أكمل التمرين» والهدف ما زال 0 من 3');
-  await click(p,'[data-a="go"][data-v="train"]');ok(/أكمل التمرين/.test(await txt(p)),'تبويب التمرين يعرض «أكمل» أيضًا');
+  await click(p,'[data-a="go"][data-v="train"]');await click(p,'.sjtk[data-v="iron"]');ok(/أكمل التمرين/.test(await txt(p)),'تبويب التمرين يعرض «أكمل» أيضًا');
   await click(p,'[data-a="go"][data-v="dash"]').catch(()=>{});
   await p.reload();await p.waitForTimeout(500);
   t=await txt(p);ok(/أكمل التمرين/.test(t)&&/1 من 9 مجموعة/.test(t.replace(/\s+/g,' ')),'بعد تحديث الصفحة: الجلسة الجزئية محفوظة');
